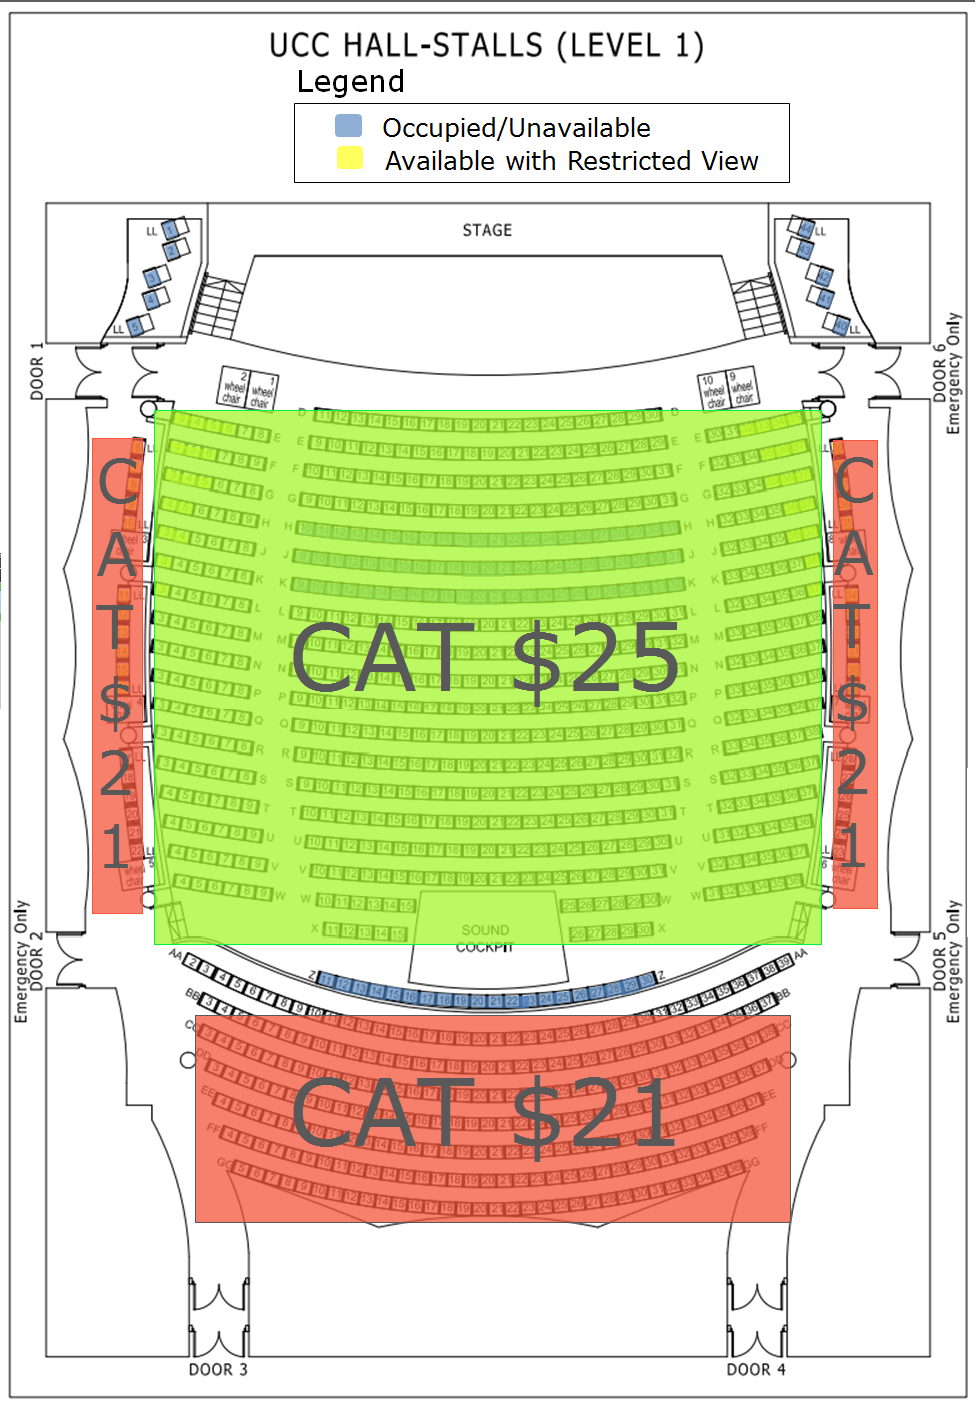
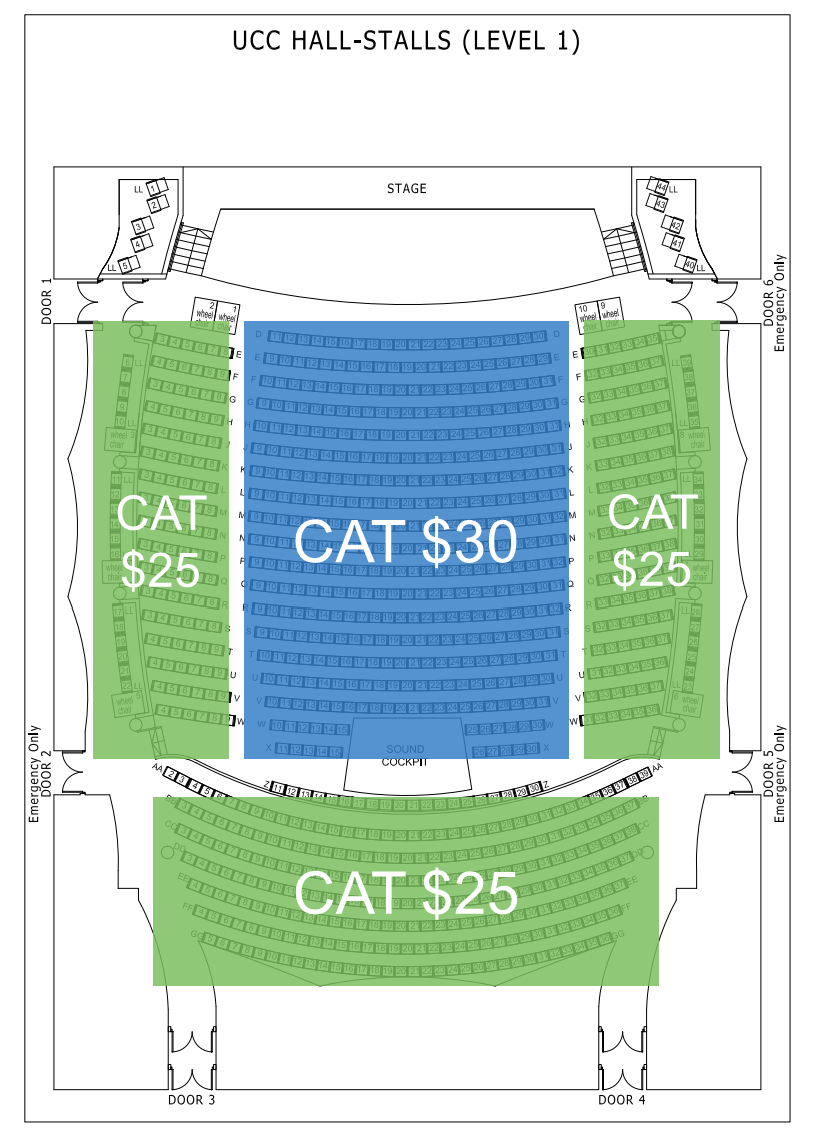
Update seating plan and relevant pictures; Minor bug fixes

diff --git a/static/js/booking_checker.js b/static/js/booking_checker.js
@@ -36,7 +36,7 @@ function check_seat_between(sc, all_seat, floor, ignore_id){
 		var new_seat_1_status = "unavailable";var new_seat_2_status = "unavailable"; // assume is unavailable for all
 		var new_seat_3_status = "unavailable";var new_seat_4_status = "unavailable";
 		try { new_seat_1_status = sc.get(new_seat_1).status(); } catch(err) {} // update the status
-		try { new_seat_2_status = sc.get(new_seat_2).status(); } catch(err) {} // the seat id may no be existed, catch the error
+		try { new_seat_2_status = sc.get(new_seat_2).status(); } catch(err) {} // the seat id may not exist, catch the error
 		try { new_seat_3_status = sc.get(new_seat_3).status(); } catch(err) {}
 		try { new_seat_4_status = sc.get(new_seat_4).status(); } catch(err) {} 
 		

diff --git a/static/css/jquery.seat-charts.css b/static/css/jquery.seat-charts.css
@@ -79,9 +79,6 @@ div.seatCharts-seat.second {
 	background-color: #79bf5e;
 }
 
-div.seatCharts-seat.third {
-	background-color: #E16B56;
-}
 
 div.seatCharts-seat.wheel {
 	background-color: #EDE275;

diff --git a/ticket.php b/ticket.php
@@ -72,7 +72,6 @@
 <div class="legend" >
 	<div class="demo-seatCharts-seat demo-seatCharts-cell" style="background-color : #357EC7"></div> &nbsp;&nbsp;&nbsp;Cat $30 seat<br />
 	<div class="demo-seatCharts-seat demo-seatCharts-cell" style="background-color : #79BF5E"></div> &nbsp;&nbsp;&nbsp;Cat $25 seat<br />
-	<div class="demo-seatCharts-seat demo-seatCharts-cell" style="background-color : #E16B56"></div> &nbsp;&nbsp;&nbsp;Cat $21 seat<br />
 	<div class="demo-seatCharts-seat demo-seatCharts-cell" style="background-color : #EDE275"></div> &nbsp;&nbsp;&nbsp;Wheel chair seat<br />
 	<div class="demo-seatCharts-seat demo-seatCharts-cell" style="background-color : #79A6C4"></div> &nbsp;&nbsp;&nbsp;Reserved seat<br />
 	<div class="demo-seatCharts-seat demo-seatCharts-cell" style="background-color : #FFF"></div> &nbsp;&nbsp;&nbsp;Selected seat<br />
@@ -96,7 +95,7 @@
 	<ol class="progress">  
 		<li class="is-active" data-step="1">Step 1: Select your seats</li>  
 		<li data-step="2">Step 2: Your booking details</li>  
-		<li data-step="3">Step 3: 'Flower Buddle'</li>
+		<li data-step="3">Step 3: Flower Bundle</li>
 		<li data-step="4" class="progress__last">Step 4: Checkout</li>
 	</ol>
 </div>
@@ -124,34 +123,34 @@
 			},
 			map: [//19 hang
 				'______ww_ffeeeeeeeeeeeeeeeeeeeeff_ww______',//11-30  		     D
-				't_ssssss_ffeeeeeeeeeeeeeeeeeeeeef_ssssss_t',//3-8, 9-29, 30-35  E
-				't_ssssss_feeeeeeeeeeeeeeeeeeeeeef_ssssss_t',//4-9, 10-31, 32-37 F
-				't_ssssss_feeeeeeeeeeeeeeeeeeeeeee_ssssss_t',//3-8, 9-31, 32-37  G
-				't_ssssss_feeeeeeeeeeeeeeeeeeeeeef_ssssss_t',//4-9, 10-31, 32-37 H
-				't_ssssss_feeeeeeeeeeeeeeeeeeeeeee_ssssss_t',//3-8, 9-31, 32-37  J
-				'v_ssssss_eeeeeeeeeeeeeeeeeeeeeeee_ssssss_v',//3-8, 9-32, 33-38  K
-				't_ssssss_frrrrrrrrrrrrrrrrrrrrrrr_ssssss_t',//3-8, 9-31, 32-37  L
-				't_ssssss_rrrrrrrrrrrrrrrrrrrrrrrr_ssssss_t',//3-8, 9-32, 33-38  M
-				't_ssssss_frrrrrrrrrrrrrrrrrrrrrrr_ssssss_t',//3-8, 9-31, 32-37  N
-				't_ssssss_eeeeeeeeeeeeeeeeeeeeeeee_ssssss_t',//3-8, 9-32, 33-38  P
-				't_ssssss_feeeeeeeeeeeeeeeeeeeeeee_ssssss_t',//3-8, 9-31, 32-37  Q
-				't_ssssss_eeeeeeeeeeeeeeeeeeeeeeee_ssssss_t',//3-8, 9-32, 33-38  R
-				'v_ssssss_feeeeeeeeeeeeeeeeeeeeeee_ssssss_v',//3-8, 9-31, 32-37  S
-				't_ssssss_feeeeeeeeeeeeeeeeeeeeeef_ssssss_t',//4-9, 10-31, 32-37 T
-				't_ssssss_ffeeeeeeeeeeeeeeeeeeeeef_ssssss_t',//4-9, 10-30, 31-36 U
-				't_ssssss_feeeeeeeeeeeeeeeeeeeeeef_ssssss_t',//4-9, 10-31, 32-37 V
-				't_ssssss_ffeeeeee_________eeeeeef_ssssss_t',//4-9, 10-30, 31-36 W
-				't________fffeeeee_________eeeeeff________t',//11-30  		   X
-				't________________________________________t',//nothing		   Y
-				'v__________rrrrrrrrrrrrrrrrrrrr__________v',//11-30  		   Z
+				's_ssssss_ffeeeeeeeeeeeeeeeeeeeeef_ssssss_s',//3-8, 9-29, 30-35  E
+				's_ssssss_feeeeeeeeeeeeeeeeeeeeeef_ssssss_s',//4-9, 10-31, 32-37 F
+				's_ssssss_feeeeeeeeeeeeeeeeeeeeeee_ssssss_s',//3-8, 9-31, 32-37  G
+				's_ssssss_feeeeeeeeeeeeeeeeeeeeeef_ssssss_s',//4-9, 10-31, 32-37 H
+				's_ssssss_feeeeeeeeeeeeeeeeeeeeeee_ssssss_s',//3-8, 9-31, 32-37  J
+				'w_ssssss_eeeeeeeeeeeeeeeeeeeeeeee_ssssss_w',//3-8, 9-32, 33-38  K
+				's_ssssss_frrrrrrrrrrrrrrrrrrrrrrr_ssssss_s',//3-8, 9-31, 32-37  L
+				's_ssssss_rrrrrrrrrrrrrrrrrrrrrrrr_ssssss_s',//3-8, 9-32, 33-38  M
+				's_ssssss_frrrrrrrrrrrrrrrrrrrrrrr_ssssss_s',//3-8, 9-31, 32-37  N
+				's_ssssss_eeeeeeeeeeeeeeeeeeeeeeee_ssssss_s',//3-8, 9-32, 33-38  P
+				's_ssssss_feeeeeeeeeeeeeeeeeeeeeee_ssssss_s',//3-8, 9-31, 32-37  Q
+				's_ssssss_eeeeeeeeeeeeeeeeeeeeeeee_ssssss_s',//3-8, 9-32, 33-38  R
+				'w_ssssss_feeeeeeeeeeeeeeeeeeeeeee_ssssss_w',//3-8, 9-31, 32-37  S
+				's_ssssss_feeeeeeeeeeeeeeeeeeeeeef_ssssss_s',//4-9, 10-31, 32-37 T
+				's_ssssss_ffeeeeeeeeeeeeeeeeeeeeef_ssssss_s',//4-9, 10-30, 31-36 U
+				's_ssssss_feeeeeeeeeeeeeeeeeeeeeef_ssssss_s',//4-9, 10-31, 32-37 V
+				's_ssssss_ffeeeeee_________eeeeeef_ssssss_s',//4-9, 10-30, 31-36 W
+				's________fffeeeee_________eeeeeff________s',//11-30  		   X
+				's________________________________________s',//nothing		   Y
+				'w__________rrrrrrrrrrrrrrrrrrrr__________w',//11-30  		   Z
 				'__________________________________________',//nothing
-				'__tttttttttttttttttttttttttttttttttttttt__',//2-39 AA
-				'__ftttttttttttttttttttttttttttttttttttff__',//3-37 BB
-				'__fttttttttttttttttttttttttttttttttttttf__',//3-38 CC
-				'__ftttttttttttttttttttttttttttttttttttff__',//3-37 DD
-				'__ffttttttttttttttttttttttttttttttttttff__',//4-37 EE
-				'__fftttttttttttttttttttttttttttttttttfff__',//4-36 FF
-				'__fffttttttttttttttttttttttttttttttttfff__',//5-36 GG
+				'__ssssssssssssssssssssssssssssssssssssss__',//2-39 AA
+				'__fsssssssssssssssssssssssssssssssssssff__',//3-37 BB
+				'__fssssssssssssssssssssssssssssssssssssf__',//3-38 CC
+				'__fsssssssssssssssssssssssssssssssssssff__',//3-37 DD
+				'__ffssssssssssssssssssssssssssssssssssff__',//4-37 EE
+				'__ffsssssssssssssssssssssssssssssssssfff__',//4-36 FF
+				'__fffssssssssssssssssssssssssssssssssfff__',//5-36 GG
 			],
 			seats: {
 				f: {
@@ -174,11 +173,6 @@
 					classes : 'seatCharts-seat seatCharts-cell available second', // cat 25
 					category: 'Cat $25 seat'
 				},	
-				t: {
-					price   : 21,
-					classes : 'seatCharts-seat seatCharts-cell available third', // cat 22
-					category: 'Cat $21 seat'
-				},
 				b: {
 					price   : 0,
 					classes : 'seatCharts-seat seatCharts-cell blocked', // blocked seat
@@ -188,12 +182,7 @@
 					price   : 25,
 					classes : 'seatCharts-seat seatCharts-cell available wheel', // cat 25
 					category: 'Cat $25 wheel chair seat'
-				},	
-				v: {
-					price   : 21,
-					classes : 'seatCharts-seat seatCharts-cell available wheel', // cat 25
-					category: 'Cat $21 wheel chair seat'
-				}	
+				}
 			
 			},
 			click: function () {
@@ -318,51 +307,51 @@
 				}
 			},
 			map: [//19 hang
-				'__t_____________________________________t__',//1
-				'__t_____________________________________t__',//2
-				't_________________________________________t',//3
-				't_________________________________________t',//4
+				'__s_____________________________________s__',//1
+				'__s_____________________________________s__',//2
+				's_________________________________________s',//3
+				's_________________________________________s',//4
 				'_',
-				'__t_____________________________________t__',//1
-				't_t_____________________________________t_t',//2
-				'__t_____________________________________t__',//3
-				't_t_____________________________________t_t',//4
-				'__t_____________________________________t__',//5
-				't_t_____________________________________t_t',//6
-				'__t_____________________________________t__',//7
-				't_t_____________________________________t_t',//8
-				'__t_____________________________________t__',//9
-				'__t_____________________________________t__',//10
-				'__t_____________________________________t__',//11
-				't_t_____________________________________t_t',//12
-				'__t_____________________________________t__',//13
-				't_t_____________________________________t_t',//14
-				'__t_____________________________________t__',//15
-				't_t_____________________________________t_t',//16
-				'__t_____________________________________t__',//17
-				't_t_____________________________________t_t',//18
-				'__t_____________________________________t__',//19
+				'__s_____________________________________s__',//1
+				's_s_____________________________________s_s',//2
+				'__s_____________________________________s__',//3
+				's_s_____________________________________s_s',//4
+				'__s_____________________________________s__',//5
+				's_s_____________________________________s_s',//6
+				'__s_____________________________________s__',//7
+				's_s_____________________________________s_s',//8
+				'__s_____________________________________s__',//9
+				'__s_____________________________________s__',//10
+				'__s_____________________________________s__',//11
+				's_s_____________________________________s_s',//12
+				'__s_____________________________________s__',//13
+				's_s_____________________________________s_s',//14
+				'__s_____________________________________s__',//15
+				's_s_____________________________________s_s',//16
+				'__s_____________________________________s__',//17
+				's_s_____________________________________s_s',//18
+				'__s_____________________________________s__',//19
 				'_',
-				'__t_____________________________________t__',//20
-				't_t_____________________________________t_t',//21
-				'__t_____________________________________t__',//22
-				't_t_____________________________________t_t',//23
-				'__t_____________________________________t__',//24
-				't_t_____________________________________t_t',//25
-				'__t_____________________________________t__',//26
-				'__t_____________________________________t__',//27
-				'__t_____________________________________t__',//28
-				't_t_____________________________________t_t',//29
-				't_t_____________________________________t_t',//30
-				't_t_____________________________________t_t',//31
-				't_t_____________________________________t_t',//32
-				't_t_ffffttttttttttttttttttttttttttttfff_t_t',//33 + A 7-34
-				'____ffftttttttttttttttttttttttttttttfff____',//B 6-34
-				'____fttttttttttttttttttttttttttttttttff____',//C 5-36
-				'____ftttttttttttttttttttttttttttttttttf____',//D 4-36
-				'____ftttttttttttttttttttttttttttttttttt____',//E 4-37
-				'____ttttttttttttttttttttttttttttttttttt____',//F 3-37
-				'____fttttttttttttttttttttttttttttttttff____',//G 5-36
+				'__s_____________________________________s__',//20
+				's_s_____________________________________s_s',//21
+				'__s_____________________________________s__',//22
+				's_s_____________________________________s_s',//23
+				'__s_____________________________________s__',//24
+				's_s_____________________________________s_s',//25
+				'__s_____________________________________s__',//26
+				'__s_____________________________________s__',//27
+				'__s_____________________________________s__',//28
+				's_s_____________________________________s_s',//29
+				's_s_____________________________________s_s',//30
+				's_s_____________________________________s_s',//31
+				's_s_____________________________________s_s',//32
+				's_s_ffffssssssssssssssssssssssssssssfff_s_s',//33 + A 7-34
+				'____fffsssssssssssssssssssssssssssssfff____',//B 6-34
+				'____fssssssssssssssssssssssssssssssssff____',//C 5-36
+				'____fsssssssssssssssssssssssssssssssssf____',//D 4-36
+				'____fssssssssssssssssssssssssssssssssss____',//E 4-37
+				'____sssssssssssssssssssssssssssssssssss____',//F 3-37
+				'____fssssssssssssssssssssssssssssssssff____',//G 5-36
 				
 			],
 			seats: {
@@ -386,11 +375,6 @@
 					classes : 'seatCharts-seat seatCharts-cell available second', // cat 25
 					category: 'Cat $25 seat'
 				},	
-				t: {
-					price   : 21,
-					classes : 'seatCharts-seat seatCharts-cell available third', // cat 22
-					category: 'Cat $21 seat'
-				},
 				b: {
 					price   : 0,
 					classes : 'seatCharts-seat seatCharts-cell blocked', // blocked seat
@@ -400,12 +384,7 @@
 					price   : 25,
 					classes : 'seatCharts-seat seatCharts-cell available wheel', // cat 25
 					category: 'Cat $25 wheel chair seat'
-				},	
-				v: {
-					price   : 21,
-					classes : 'seatCharts-seat seatCharts-cell available wheel', // cat 25
-					category: 'Cat $21 wheel chair seat'
-				}	
+				}
 			
 			},
 			click: function () {

diff --git a/script.php b/script.php
@@ -353,16 +353,16 @@
 
 
 		// wheel chair seats		
-		echo "INSERT INTO seat (level, row, col, seat_code) VALUES (1, 'Wheel Chair', '1', '1_1_7'); \r\n";
-		echo "INSERT INTO seat (level, row, col, seat_code) VALUES (1, 'Wheel Chair', '1', '1_1_8'); \r\n";
-		echo "INSERT INTO seat (level, row, col, seat_code) VALUES (1, 'Wheel Chair', '1', '1_1_35'); \r\n";
-		echo "INSERT INTO seat (level, row, col, seat_code) VALUES (1, 'Wheel Chair', '1', '1_1_36'); \r\n";
-		echo "INSERT INTO seat (level, row, col, seat_code) VALUES (1, 'Wheel Chair', '1', '1_7_1'); \r\n";
-		echo "INSERT INTO seat (level, row, col, seat_code) VALUES (1, 'Wheel Chair', '1', '1_7_42'); \r\n";
-		echo "INSERT INTO seat (level, row, col, seat_code) VALUES (1, 'Wheel Chair', '1', '1_14_1'); \r\n";
-		echo "INSERT INTO seat (level, row, col, seat_code) VALUES (1, 'Wheel Chair', '1', '1_14_42'); \r\n";
-		echo "INSERT INTO seat (level, row, col, seat_code) VALUES (1, 'Wheel Chair', '1', '1_21_1'); \r\n";
-		echo "INSERT INTO seat (level, row, col, seat_code) VALUES (1, 'Wheel Chair', '1', '1_21_42'); \r\n";
+		echo "INSERT INTO seat (level, row, col, seat_code) VALUES (1, 'WC', '2', '1_1_7'); \r\n";
+		echo "INSERT INTO seat (level, row, col, seat_code) VALUES (1, 'WC', '1', '1_1_8'); \r\n";
+		echo "INSERT INTO seat (level, row, col, seat_code) VALUES (1, 'WC', '10', '1_1_35'); \r\n";
+		echo "INSERT INTO seat (level, row, col, seat_code) VALUES (1, 'WC', '9', '1_1_36'); \r\n";
+		echo "INSERT INTO seat (level, row, col, seat_code) VALUES (1, 'WC', '3', '1_7_1'); \r\n";
+		echo "INSERT INTO seat (level, row, col, seat_code) VALUES (1, 'WC', '8', '1_7_42'); \r\n";
+		echo "INSERT INTO seat (level, row, col, seat_code) VALUES (1, 'WC', '4', '1_14_1'); \r\n";
+		echo "INSERT INTO seat (level, row, col, seat_code) VALUES (1, 'WC', '7', '1_14_42'); \r\n";
+		echo "INSERT INTO seat (level, row, col, seat_code) VALUES (1, 'WC', '5', '1_21_1'); \r\n";
+		echo "INSERT INTO seat (level, row, col, seat_code) VALUES (1, 'WC', '6', '1_21_42'); \r\n";
 
 
 ?>

diff --git a/checkout.php b/checkout.php
@@ -37,7 +37,7 @@
 
         // third change seat status
         foreach($data -> select_seat  as $seat_code => $value) {
-          change_seat_status($seat_code, SEAT_STATUS_BOOKED, $user_id);
+          change_seat_status($seat_code, SEAT_STATUS_OCCUPIED, $user_id);
         }
 
 
@@ -46,7 +46,7 @@
         <h2>Your booking details have been successfully stored in our database</h2>
         <h3>Booking Reference: $booking_id</h3>
         <p>
-          Please transfer S$$total_price.00 to to POSB 032-62536-3 and then email dpsponsorship@eusoff.nus.edu.sg with your reference number. 
+          Please transfer <strong> S$$total_price.00  </strong> to POSB account <strong> 032-62536-3 </strong> and email your Booking Reference to <strong> dpsponsorship@eusoff.nus.edu.sg </strong> . 
         </p>
 MSG_HEADER;
 
@@ -100,7 +100,7 @@ MSG_HEADER;
   <ol class="progress">  
     <li data-step="1" class="is-complete">Step 1: Select your seats</li>  
     <li data-step="2" class="is-complete" >Step 2: Your booking details</li>  
-    <li data-step="3" class="is-complete">Step 3: 'Flower Buddle'</li>
+    <li data-step="3" class="is-complete">Step 3: Flower Bundle</li>
     <li data-step="4" class="progress__last is-active">Step 4: Checkout</li>
   </ol>
   </div>

diff --git a/flowers.php b/flowers.php
@@ -71,7 +71,7 @@
   <ol class="progress">  
     <li data-step="1" class="is-complete">Step 1: Select your seats</li>  
     <li data-step="2" class="is-complete" >Step 2: Your booking details</li>  
-    <li data-step="3" class="is-active">Step 3: 'Flower Buddle'</li>
+    <li data-step="3" class="is-active">Step 3: Flower Bundle</li>
     <li data-step="4" class="progress__last">Step 4: Checkout</li>
   </ol>
   </div>

diff --git a/personal_detail.php b/personal_detail.php
@@ -85,7 +85,7 @@
 	<ol class="progress">  
 		<li data-step="1" class="is-complete" data-step="1">Step 1: Select your seats</li>  
 		<li data-step="2" class="is-active">Step 2: Your booking details</li>  
-		<li data-step="3" >Step 3: 'Flower Buddle'</li>
+		<li data-step="3" >Step 3: Flower Bundle</li>
 		<li data-step="4" class="progress__last">Step 4: Checkout</li>
 	</ol>
 	</div>

diff --git a/contact.php b/contact.php
@@ -40,6 +40,7 @@
 		#info {
 			margin-left: 20px;
 			margin-right: 20px;
+			text-align: center;
 			color: white;
 			font-family: "helvetica";		
 		}
